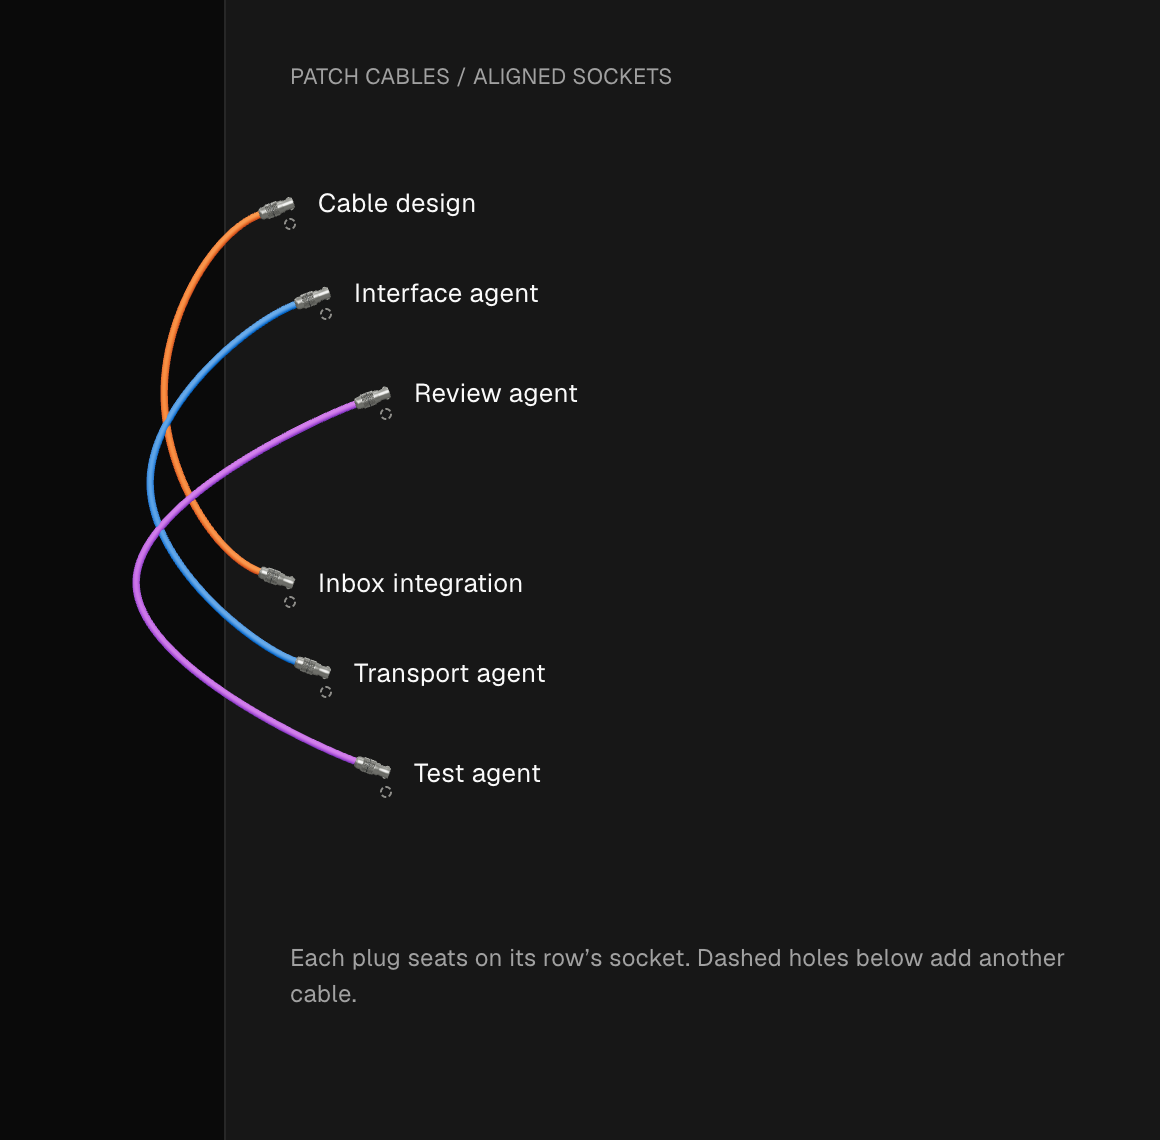
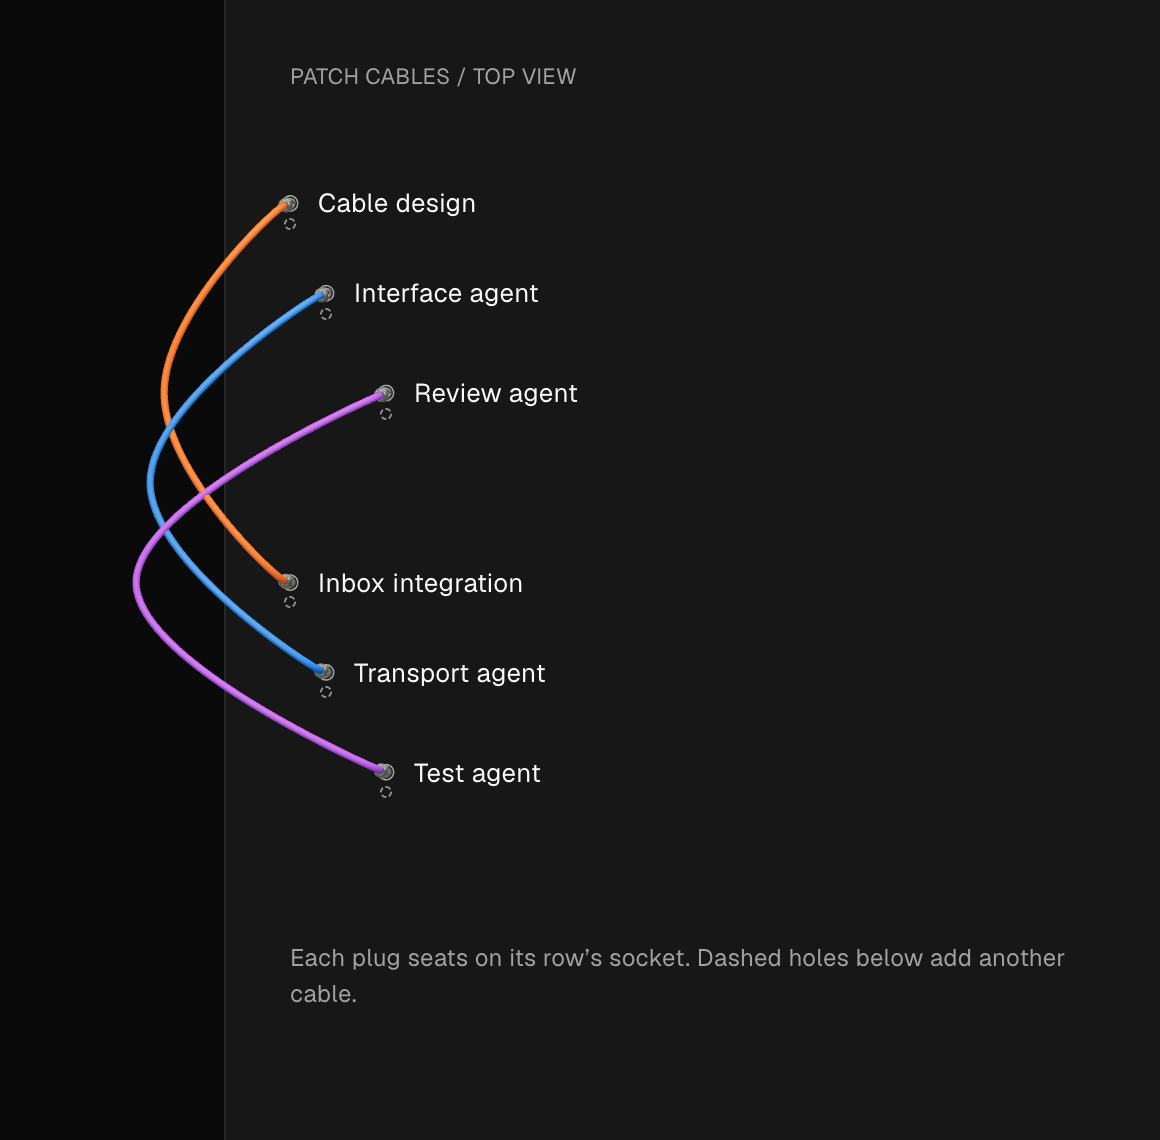
Render patch plugs from above
Tilt each plug twelve degrees from the panel normal and raise the cable
out of its collar before bending it into the loop. Keep socket rims
circular. Match the SVG drag/fallback artwork and refresh the fixture.

Visual root cause (Five Whys):
1. Why did plugs look sideways? Their barrel axis lay in the screen plane.
   https://github.com/joelthecoder/orca/blob/5288e18e1020b1c5b4592b07c4c5ef0615329fdb/src/renderer/src/components/patch-bay/patch-cable-scene.ts#L45
2. Why was that axis flat? cableAxis always returned a zero Z component.
   https://github.com/joelthecoder/orca/blob/5288e18e1020b1c5b4592b07c4c5ef0615329fdb/src/renderer/src/components/patch-bay/patch-cable-scene.ts#L45
3. Why did the entire barrel follow it? Its quaternion used that cable axis.
   https://github.com/joelthecoder/orca/blob/5288e18e1020b1c5b4592b07c4c5ef0615329fdb/src/renderer/src/components/patch-bay/patch-cable-scene.ts#L115
4. Why did the socket reinforce the side view? Its X scale compressed the rim.
   https://github.com/joelthecoder/orca/blob/5288e18e1020b1c5b4592b07c4c5ef0615329fdb/src/renderer/src/components/patch-bay/patch-cable-scene.ts#L105
5. Why did alignment alone not fix the appearance? It corrected DOM positions
   while retaining the same planar plug geometry and long SVG barrel.
   https://github.com/joelthecoder/orca/blob/5288e18e1020b1c5b4592b07c4c5ef0615329fdb/src/renderer/src/components/patch-bay/PatchCable.tsx#L29
[…]

diff --git a/src/renderer/src/components/patch-bay/patch-cable-scene.ts b/src/renderer/src/components/patch-bay/patch-cable-scene.ts
@@ -35,6 +35,7 @@ type Endpoint = PatchCableFrame['cables'][number]['from']
 const UP = new Vector3(0, 1, 0)
 const CONNECTOR_LENGTH = 16
 const CABLE_RADIUS = 1.85
+const CONNECTOR_TILT = (12 * Math.PI) / 180
 
 function cableAxis(point: Endpoint, other: Endpoint): Vector3 {
   const spread = Math.abs(other.y - point.y) < 48 ? -1 : 1
@@ -42,7 +43,11 @@ function cableAxis(point: Endpoint, other: Endpoint): Vector3 {
     point.angle ??
     (point.direction < 0 ? 180 : 0) + (other.y >= point.y ? 20 : -20) * point.direction * spread
   const radians = (degrees * Math.PI) / 180
-  return new Vector3(Math.cos(radians), -Math.sin(radians), 0)
+  return new Vector3(
+    Math.cos(radians) * Math.sin(CONNECTOR_TILT),
+    -Math.sin(radians) * Math.sin(CONNECTOR_TILT),
+    Math.cos(CONNECTOR_TILT)
+  )
 }
 
 export class PatchCableScene {
@@ -98,18 +103,16 @@ export class PatchCableScene {
     return material
   }
 
-  private plug(point: Endpoint, axis: Vector3, z: number): void {
+  private plug(point: Endpoint, axis: Vector3): void {
     const socket = new Group()
     socket.position.set(point.x, -point.y, 1)
-    socket.rotation.z = Math.atan2(axis.y, axis.x)
-    socket.scale.x = 0.55
-    const recess = new Mesh(new CircleGeometry(3.45, 48), this.metal.recess)
-    const rim = new Mesh(new TorusGeometry(3, 0.45, 12, 48), this.metal.body)
+    const recess = new Mesh(new CircleGeometry(3.8, 48), this.metal.recess)
+    const rim = new Mesh(new TorusGeometry(3.8, 0.45, 12, 48), this.metal.body)
     rim.position.z = 0.5
     socket.add(recess, rim)
     this.cables.add(socket)
     const group = new Group()
-    group.position.set(point.x, -point.y, z)
+    group.position.set(point.x, -point.y, 1)
     group.quaternion.setFromUnitVectors(UP, axis)
     const profile = [
       [2.6, -1.8],
@@ -159,9 +162,9 @@ export class PatchCableScene {
     frame.cables.forEach((cable) => {
       const a = cableAxis(cable.from, cable.to),
         b = cableAxis(cable.to, cable.from)
-      const z = 4 + (cable.lane % 8) * 0.6
-      const start = new Vector3(cable.from.x, -cable.from.y, z).addScaledVector(a, CONNECTOR_LENGTH)
-      const end = new Vector3(cable.to.x, -cable.to.y, z).addScaledVector(b, CONNECTOR_LENGTH)
+      const start = new Vector3(cable.from.x, -cable.from.y, 1).addScaledVector(a, CONNECTOR_LENGTH)
+      const end = new Vector3(cable.to.x, -cable.to.y, 1).addScaledVector(b, CONNECTOR_LENGTH)
+      const z = start.z + 8 + (cable.lane % 8) * 0.6
       const outward = PATCH_CABLE_OVERHANG - 30 - (cable.lane % 8) * 7
       const middleY = (start.y + end.y) / 2
       const sign = start.y >= end.y ? 1 : -1
@@ -191,8 +194,8 @@ export class PatchCableScene {
           this.jacket(cable.colorIndex)
         )
       )
-      this.plug(cable.from, a, z)
-      this.plug(cable.to, b, z)
+      this.plug(cable.from, a)
+      this.plug(cable.to, b)
     })
     this.renderer.render(this.scene, this.camera)
   }

diff --git a/src/renderer/src/components/patch-bay/PatchCable.tsx b/src/renderer/src/components/patch-bay/PatchCable.tsx
@@ -16,23 +16,11 @@ function PatchPlug({
     <g
       transform={`translate(${point.x} ${point.y}) rotate(${point.angle ?? (point.direction < 0 ? 180 : 0)}) scale(${scale})`}
     >
-      <ellipse
-        rx="3.5"
-        ry="7"
-        fill="var(--patch-metal-dark)"
-        stroke={`url(#${metalId})`}
-        strokeWidth="1.5"
-      />
-      <rect x="-5" y="-7" width="10" height="14" rx="1.5" fill="var(--patch-metal-dark)" />
-      <rect x="-2" y="-8" width="9" height="16" rx="1.5" fill={`url(#${metalId})`} />
-      <rect x="4" y="-9" width="29" height="18" rx="2" fill={`url(#${metalId})`} />
-      <rect x="8" y="-8" width="18" height="16" rx="1" fill={`url(#${gripId})`} opacity=".4" />
-      <path d="M 7 -8 V 8 M 27 -8 V 8" className="patch-plug-seam" />
-      <path
-        d="M 32 -7 L 38 -7 Q 41 -7 44 -5.25 L 48 -5.25 L 48 5.25 L 44 5.25 Q 41 7 38 7 L 32 7 Z"
-        className="patch-plug-collar"
-      />
-      <path d="M 35 -4 H 40" className="patch-cable-glint" />
+      <circle r="7.6" fill="var(--patch-shadow)" stroke={`url(#${metalId})`} strokeWidth="1.8" />
+      <ellipse cx="3.5" rx="10" ry="7" fill={`url(#${metalId})`} />
+      <ellipse cx="3.5" rx="10" ry="7" fill={`url(#${gripId})`} opacity=".4" />
+      <ellipse cx="7" rx="6.8" ry="7" fill={`url(#${metalId})`} />
+      <ellipse cx="7" rx="4.2" ry="4.4" fill="var(--patch-metal-dark)" />
     </g>
   )
 }
@@ -69,8 +57,8 @@ export function PatchCable({
     const radians = ((point.angle ?? 0) * Math.PI) / 180
     return {
       ...point,
-      x: point.x + Math.cos(radians) * 45 * plugScale,
-      y: point.y + Math.sin(radians) * 45 * plugScale
+      x: point.x + Math.cos(radians) * 7 * plugScale,
+      y: point.y + Math.sin(radians) * 7 * plugScale
     }
   }
   const path = patchCablePath(
@@ -100,11 +88,11 @@ export function PatchCable({
         </pattern>
       </defs>
       <path d={path} className="patch-cable-shadow" transform="translate(0 6)" />
+      <PatchPlug scale={plugScale} point={start} metalId={`${id}-metal`} gripId={`${id}-grip`} />
+      <PatchPlug scale={plugScale} point={end} metalId={`${id}-metal`} gripId={`${id}-grip`} />
       <path d={path} className="patch-cable-edge" />
       <path d={path} className="patch-cable-body" />
       <path d={path} className="patch-cable-light" transform="translate(0 -2)" />
-      <PatchPlug scale={plugScale} point={start} metalId={`${id}-metal`} gripId={`${id}-grip`} />
-      <PatchPlug scale={plugScale} point={end} metalId={`${id}-metal`} gripId={`${id}-grip`} />
     </g>
   )
 }

diff --git a/src/renderer/src/components/patch-bay/patch-bay.css b/src/renderer/src/components/patch-bay/patch-bay.css
@@ -191,20 +191,6 @@
   stroke-width: 3;
   opacity: 0.4;
 }
-.patch-cable .patch-cable-glint {
-  stroke: var(--patch-metal-light);
-  stroke-width: 2;
-  opacity: 0.3;
-}
-.patch-cable .patch-plug-seam {
-  stroke: var(--patch-metal-dark);
-  stroke-width: 1.5;
-}
-.patch-cable .patch-plug-collar {
-  fill: currentColor;
-  stroke: color-mix(in srgb, currentColor 70%, var(--patch-shadow));
-  stroke-width: 0.5;
-}
 .patch-jack[data-patched='true'] .patch-jack-ring {
   visibility: hidden;
   background: var(--patch-metal-dark);

diff --git a/README.joel.md b/README.joel.md
@@ -8,13 +8,13 @@ Connect session and workspace cards with chunky, brightly colored cables inspire
 
 The cable button at the bottom of the **main Projects sidebar** reveals jacks and a color picker. You can also click two jacks to connect them, including with the keyboard. Choose from **24 cable jackets**, including purple, red, yellow, hot pink, cyan, black, graphite, silver, and white. Each endpoint accepts up to eight connections and shows a faint spare jack when another connection is available.
 
-![Current renderer: plugs seated on the workspace and agent socket positions](docs/fork/assets/patch-cable-material.png)
+![Current renderer: top view of plugs seated in workspace and agent sockets](docs/fork/assets/patch-cable-material.png)
 
 This alignment fixture uses the live renderer and measured DOM socket positions with synthetic names. The actual feature attaches to the main app's existing workspace and agent rows.
 
-The live renderer uses Three.js tube geometry, machined-metal profiles, raised diamond grip facets, and physically lit rubber. The tube shares its connector's exit axis, avoiding a separate-looking joint. Geometry follows the endpoints and UI zoom; it redraws on change rather than continuously animating. An SVG fallback remains available if WebGL cannot initialize.
+The live renderer uses Three.js tube geometry, machined-metal profiles, raised diamond grip facets, and physically lit rubber. Plugs rise out of the panel, tilted just 12 degrees from its normal, so the top view shows a compact round collar instead of a barrel lying across the row. The cable leaves the collar toward the viewer before bending into its loop. Geometry follows the endpoints and UI zoom; it redraws on change rather than continuously animating. The SVG fallback uses the same top-view appearance if WebGL cannot initialize.
 
-Each plug covers its recessed socket, leaving a narrow metal rim. A faint dashed spare port directly below a connected plug starts another connection when clicked; it disappears at eight connections. In patch mode, sockets occupy the measured status-marker positions beside the names. Expanding an agent's message does not move its socket; nested rows retain their indentation, and the cable window widens to include them. Adjacent agents use outward-angled plugs so short cables form a rounded loop.
+Each plug covers its recessed socket, leaving a narrow circular metal rim. A faint dashed spare port directly below a connected plug starts another connection when clicked; it disappears at eight connections. In patch mode, sockets occupy the measured status-marker positions beside the names. Expanding an agent's message does not move its socket; nested rows retain their indentation, and the cable window widens to include them. Adjacent agents use outward-angled cable exits so short cables form a rounded loop.
 
 <details>
 <summary>Earlier layout study and palette lab</summary>
@@ -120,6 +120,7 @@ The [Codex-only upstream maintenance prompt](docs/fork/upstream-sync.md) specifi
 
 | Date       | Personal change                                                                                                                              | Verification                                                                                                                |
 | ---------- | -------------------------------------------------------------------------------------------------------------------------------------------- | --------------------------------------------------------------------------------------------------------------------------- |
+| 2026-09-26 | Top-view plugs seated on measured row sockets, circular rims, and matching drag-preview artwork | Hidden Electron connect/spare/zoom/unplug check; 10 patch-cable tests; renderer and SVG screenshots |
 | 2026-09-25 | Main-sidebar patch cables, 24 colors, 3D material rendering, outside-window companion, agent inbox introductions, and separate fork launcher | Hidden Electron cross-repo drag/ghost/zoom/unplug check; peer-mail routing and real inbox tests; identity and reorder tests |
 
 For every future personal feature, update this file with behavior, limitations, verification, and fresh screenshots. Keep captures on synthetic fixtures so shared documentation does not expose private repository names, conversations, or credentials.
